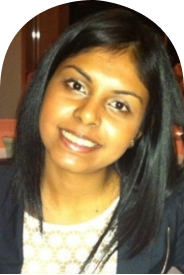
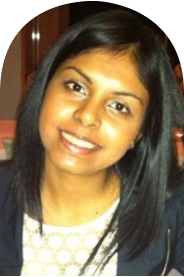
Update to profile pic for perfect shape

diff --git a/about.html b/about.html
@@ -37,8 +37,8 @@
     <div>
       <div>
         <picture>
-          <source srcset="img/j/ppic2@1x.png" media="(max-width:767px)">
-            <img src="img/j/ppic2@2x.png" alt="My Profile Picture">
+          <source srcset="img/j/profile-pic@1x.png" media="(max-width:767px)">
+            <img src="img/j/profile-pic@2x.png" alt="My Profile Picture">
         </picture>
       </div>
       <div>
